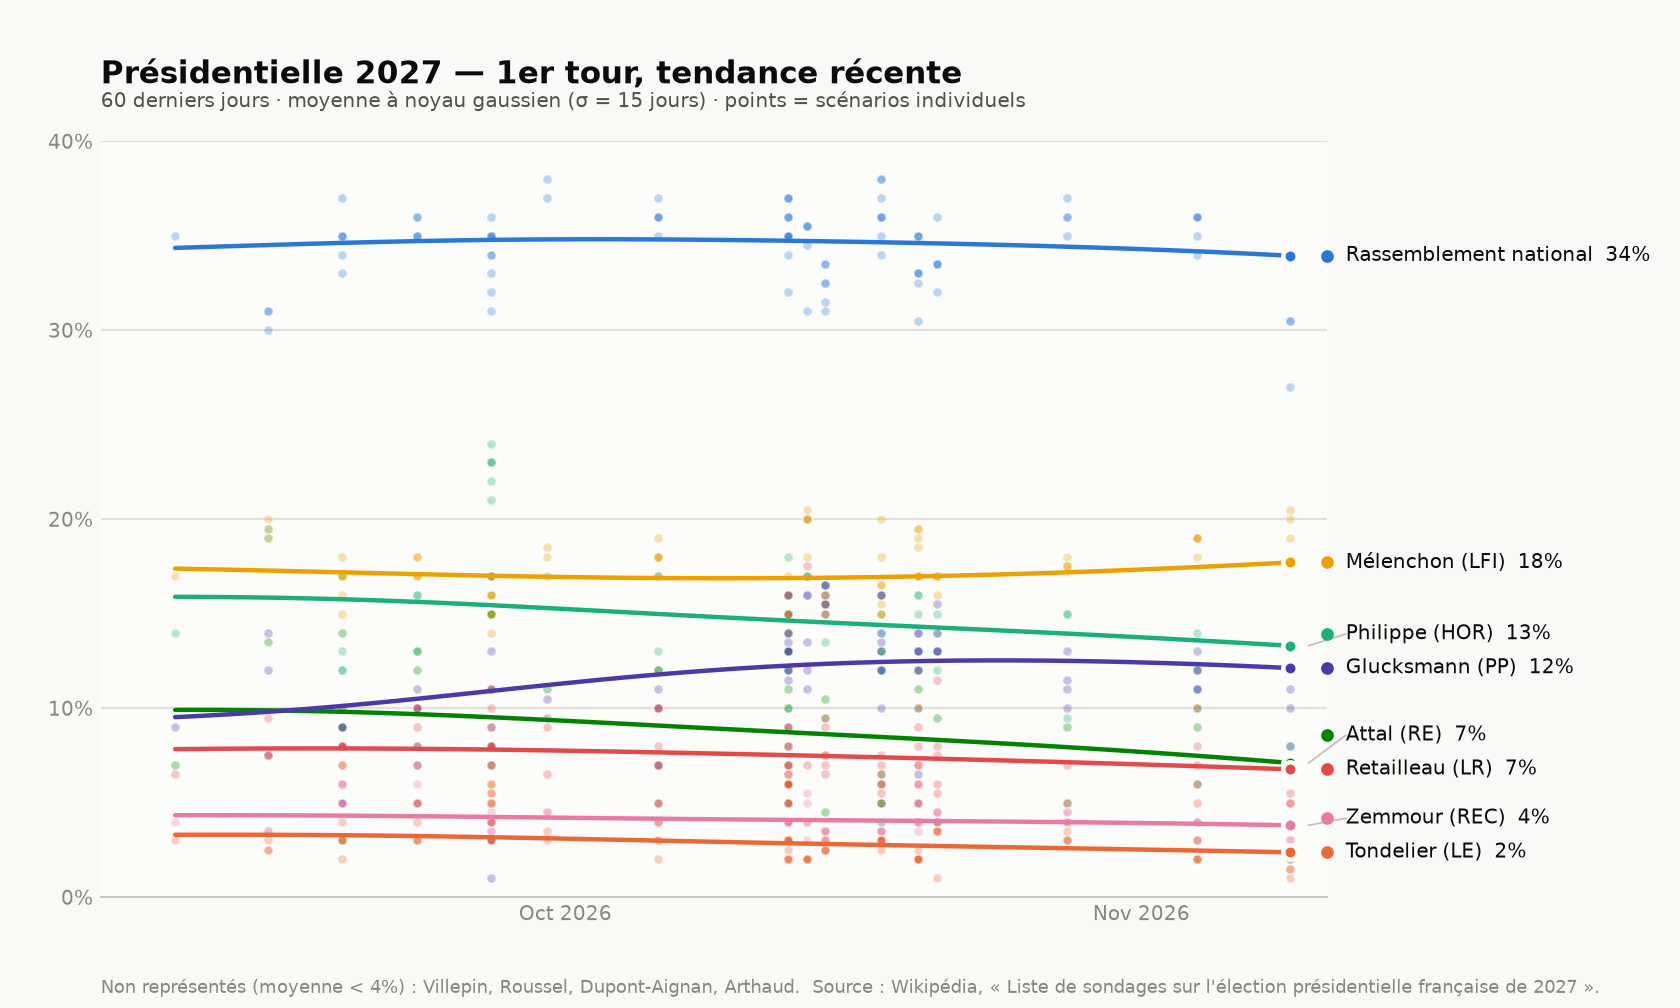
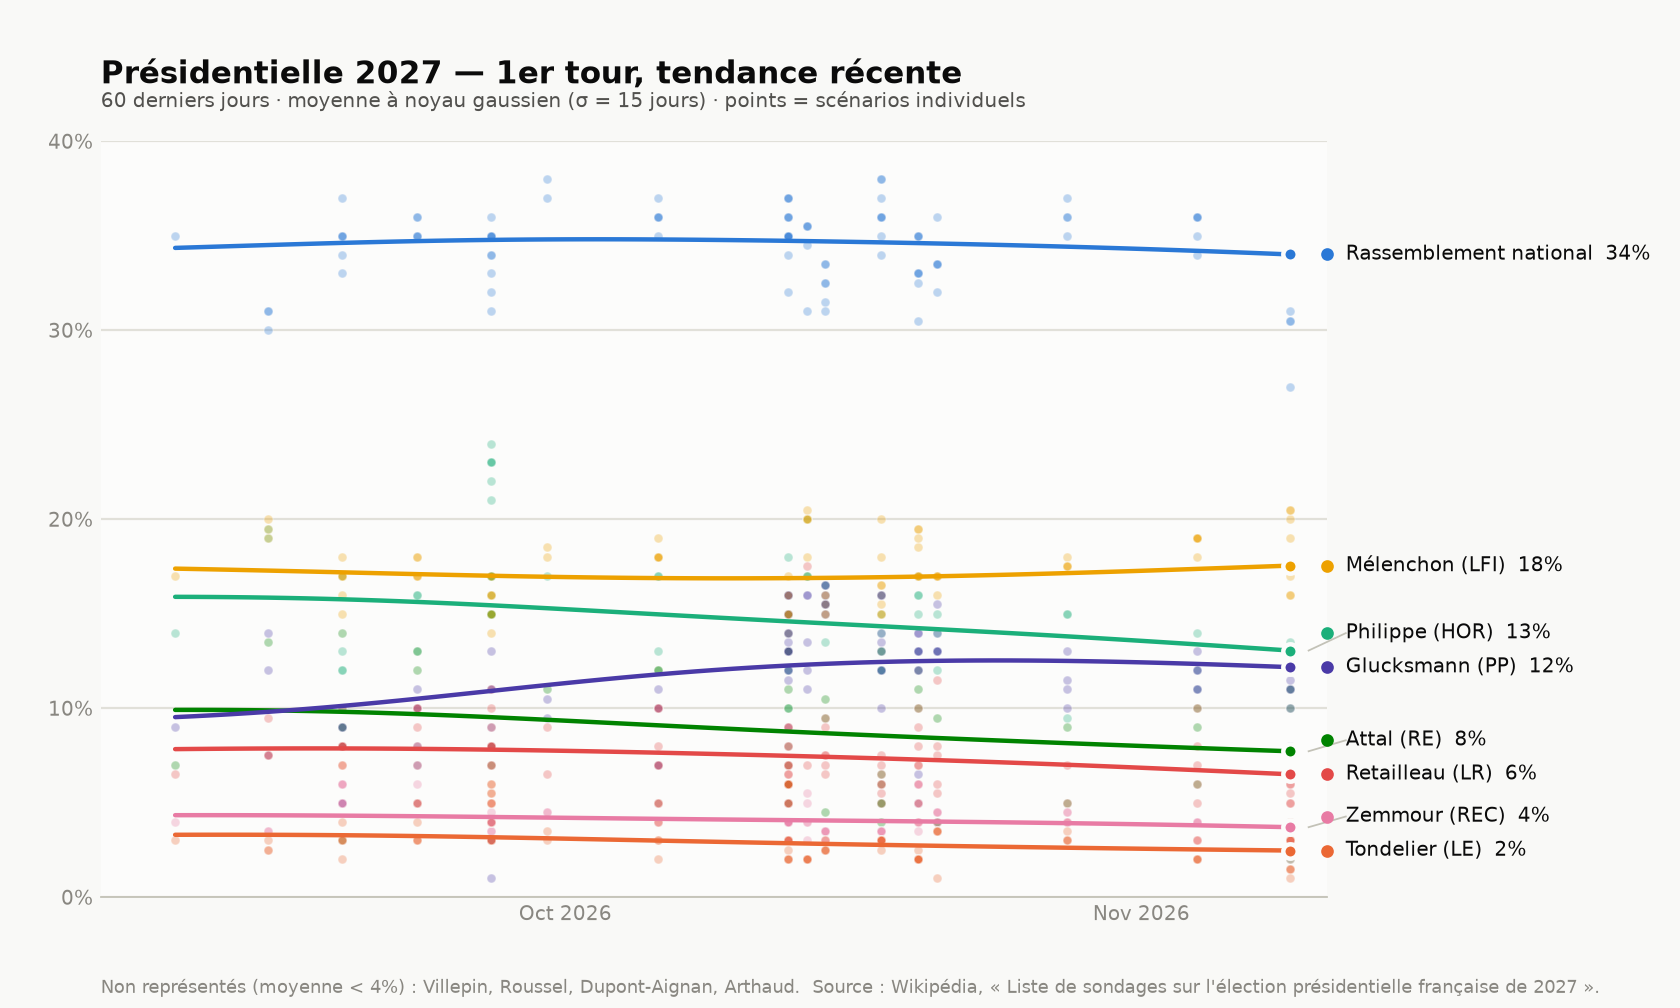
Add Opinionway 9-10 November 2026 poll (n=982) and new Cluster17 scenario
Opinionway (n=982, 9-10 November, three scenarios): RN (Le Pen) 34%,
Melenchon 16-17%, Glucksmann 11-13%, Philippe 11-12%, Lisnard 10-12%,
Retailleau 4-6%, Attal 4-10%.

Cluster17's 9-10 November poll (n=1164) gained a fourth scenario
("Attal seul candidat du bloc centrale", added per revision 241277702 by
Tapon58, sourced to the pollster's own PDF) and had its three existing
scenarios reordered to match the pollster's published order (revision
241284952 by Utilisateur19911, "Scenarios de Cluster17 dans l'ordre du
sondeur"). All four scenarios' candidate shares sum to 100; only the
scenario numbers and row order changed for the three pre-existing
scenarios, their values are untouched.

diff --git a/README.md b/README.md
@@ -61,7 +61,7 @@ python3 parse_polls.py /tmp/frelec_raw.wiki polls_2027_second_round.csv --second
 First-round voting-intention polls, January–November 2026, scraped from the French
 Wikipedia article
 ["Liste de sondages sur l'élection présidentielle française de 2027"](https://fr.wikipedia.org/wiki/Liste_de_sondages_sur_l%27%C3%A9lection_pr%C3%A9sidentielle_fran%C3%A7aise_de_2027)
-(pulled 2026-11-11).
+(pulled 2026-11-12).
 
 David Lisnard (Nouvelle Énergie) gained their own column starting with the
 17–19 October 2026 Ifop poll's sub-table ("Octobre-décembre 2026"). Earlier
@@ -106,9 +106,12 @@ Lecornu, etc.). A share Wikipedia reports only as an upper bound (e.g. `<1`)
 is encoded as the midpoint of that bound (`0.5`), with the original reading
 kept in `notes`.
 
-Latest polls: Cluster17 (n=1164, 9–10 November, three scenarios) — RN (Le Pen)
-27–30.5%, Mélenchon 19–20.5%, Glucksmann 8–11%, Philippe 8–13.5% (two
-scenarios), Lisnard 8–10%, Retailleau 5–5.5%, Attal 2% (one scenario);
+Latest polls: Opinionway (n=982, 9–10 November, three scenarios) — RN (Le Pen)
+34%, Mélenchon 16–17%, Glucksmann 11–13%, Philippe 11–12% (two scenarios),
+Lisnard 10–12%, Retailleau 4–6%, Attal 4–10% (two scenarios); Cluster17
+(n=1164, 9–10 November, four scenarios) — RN (Le Pen)
+27–31%, Mélenchon 19–20.5%, Glucksmann 8–11.5%, Philippe 8–13.5% (two
+scenarios), Lisnard 8–10%, Retailleau 5–6%, Attal 2–11% (two scenarios);
 Christine Lagarde was tested as an independent candidate, folded into
 `Autre`, in two scenarios (8–14%); Harris (n=2101, 3–5 November, five scenarios) — RN (Le Pen)
 34–36%, Mélenchon 18–19%, Glucksmann 11–13%, Philippe 11–12% (two
